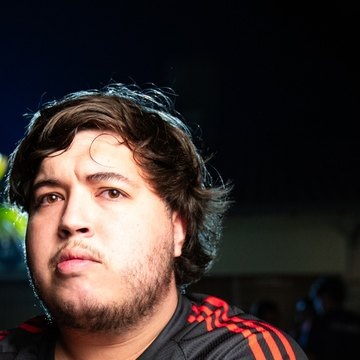
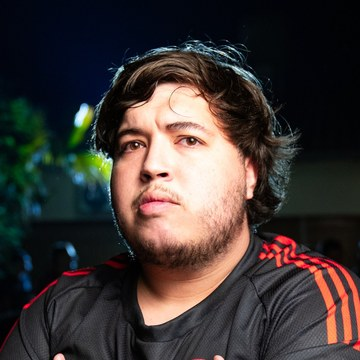
Copa Potrero: slideshow plantel, más fotos, Monza centrado, colaboración centrada
Claude-Session: https://claude.ai/code/session_01M6jUVZkPLQ8eqEsdzbFnz8

diff --git a/copa-potrero/index.html b/copa-potrero/index.html
@@ -107,7 +107,13 @@ tr.us td:first-child{color:var(--red)}
 
 /* plantel */
 .team{margin:0 0 14px;position:relative;background:var(--ink)}
-.team img{width:100%;display:block;aspect-ratio:16/8;object-fit:cover;object-position:50% 45%}
+.team{aspect-ratio:16/8;max-width:100%;overflow:hidden}
+.team img{position:absolute;inset:0;width:100%;height:100%;display:block;object-fit:cover;object-position:50% 45%;opacity:0;transition:opacity .8s}
+.team img.on{opacity:1}
+.team-dots{position:absolute;right:14px;bottom:14px;display:flex;gap:6px}
+.team-dots button{width:10px;height:10px;border-radius:50%;border:0;padding:0;background:rgba(255,255,255,.5);cursor:pointer}
+.team-dots button.on{background:#fff}
+@media (max-width:640px){.team{aspect-ratio:4/3}}
 .team figcaption{position:absolute;left:0;bottom:0;background:var(--red);color:#fff;font-family:var(--display);font-weight:900;font-size:1.2rem;text-transform:uppercase;letter-spacing:.03em;padding:8px 14px}
 .squad{display:grid;grid-template-columns:repeat(auto-fill,minmax(230px,1fr));gap:12px}
 .player{background:var(--paper);padding:18px;display:grid;grid-template-columns:auto 1fr;gap:16px;align-items:center}
@@ -159,7 +165,10 @@ tr.us td:first-child{color:var(--red)}
 .btn-ig:hover{background:var(--red)}
 .colabs{display:grid;grid-template-columns:repeat(auto-fill,minmax(320px,1fr));gap:16px;margin-top:16px}
 .colab{background:var(--paper);padding:18px;display:grid;gap:12px;align-content:start;min-width:0}
-.colab-h h3{font-size:1.8rem;margin-top:4px}
+.colab-h{text-align:center}
+.colab-h .eyebrow{display:block;color:var(--muted)}
+.colab-h h3{font-size:1.8rem;margin-top:6px}
+.colab .instagram-media{margin-left:auto!important;margin-right:auto!important}
 .colab .instagram-media{margin:0!important;min-width:0!important;width:100%!important;max-width:540px!important}
 .colab blockquote.instagram-media:not([style]){border:0;padding:0}
 .colab blockquote a{display:block;text-align:center;font-family:var(--display);font-weight:900;font-size:1.3rem;text-transform:uppercase;text-decoration:none;background:var(--ink);color:#fff;padding:14px}
@@ -189,7 +198,8 @@ tr.us td:first-child{color:var(--red)}
 .tile .go{font-weight:800;font-size:.78rem;letter-spacing:.12em;text-transform:uppercase;margin-top:6px}
 
 .join{margin-top:64px;background:var(--red);color:#fff}
-.join-in{display:grid;grid-template-columns:1.2fr .8fr;gap:28px;align-items:center;padding-block:48px}
+.join-ph{width:100%;max-width:100%;aspect-ratio:4/3;object-fit:cover;display:block;border:4px solid #fff}
+.join-in{display:grid;grid-template-columns:.9fr 1.1fr .8fr;gap:28px;align-items:center;padding-block:48px}
 .join-in > *{min-width:0}
 .join .eyebrow{color:#fff;opacity:.85}
 .join h2{font-size:clamp(2.8rem,7vw,5.2rem);margin-top:10px}
@@ -304,7 +314,14 @@ footer .handles a{color:var(--paper);text-decoration:none}
 
   <section id="plantel">
     <div class="sec-head"><h2 class="it">Plan<span>tel</span></h2><p>17 jugadores y cuerpo técnico confirmados para la Copa Potrero 2026.</p></div>
-    <figure class="team"><img src="fotos-grupal_2025.jpg" alt="Plantel de Liga Núñez en la Copa Potrero 2025"><figcaption>Plantel Liga Núñez · Copa Potrero 2025</figcaption></figure>
+    <figure class="team" id="teamShow">
+      <img src="fotos-plantel_cp2025.jpg" alt="Liga Núñez formado en la Copa Potrero 2025" class="on">
+      <img src="fotos-25_09.jpg" alt="Liga Núñez antes de un partido de la Copa Potrero 2025" loading="lazy">
+      <img src="fotos-25_b7.jpg" alt="Liga Núñez formado en la Copa Potrero 2025" loading="lazy">
+      <img src="fotos-24_0.jpg" alt="Ronda de Liga Núñez en la Copa Potrero 2024" loading="lazy">
+      <figcaption>Plantel Liga Núñez · Copa Potrero</figcaption>
+      <div class="team-dots" aria-hidden="true"></div>
+    </figure>
     <div class="squad" id="squad"></div>
   </section>
 
@@ -385,6 +402,7 @@ footer .handles a{color:var(--paper);text-decoration:none}
 
 <section class="join" id="jugar">
   <div class="wrap join-in">
+    <img class="join-ph" src="fotos-grupal_2025.jpg" alt="Plantel de Liga Núñez" loading="lazy">
     <div class="join-txt">
       <span class="eyebrow">El torneo F8 más grande del país</span>
       <h2 class="it">¿Querés jugar en<br>Liga Núñez?</h2>
@@ -432,7 +450,7 @@ footer .handles a{color:var(--paper);text-decoration:none}
   var roles={'Monza':['AC','Ayudante de campo'],'Carlos':['DT','Director técnico']};
   staff.forEach(function(n){var r=roles[n]||['DT','Cuerpo técnico'];var p=document.createElement('div');p.className='player dt';p.innerHTML=av(n,r[0])+'<span><span class="nm">'+n+'</span><br><span class="ps">'+r[1]+'</span></span>';sq.appendChild(p);});
   // Galería por año (lugares listos para cargar fotos)
-  var sets={ultima:['grupal_2025','25_09','24_6','25_02','24_7','25_06','24_8'],'2025':['grupal_2025','25_09','25_02','25_03','25_06','25_07','25_08','25_01','25_04','25_10','25_00'],'2024':['24_6','24_0','24_2','24_5','24_7','24_8']};
+  var sets={ultima:['plantel_cp2025','24_6','25_b0','25_02','24_7','25_06','24_8'],'2025':['plantel_cp2025','25_09','25_02','25_b0','25_03','25_b3','25_06','25_b1','25_07','25_b4','25_08','25_b6','25_01','25_b8','25_04','25_10','25_00','grupal_2025'],'2024':['24_6','24_d7_8','24_0','24_d7_4','24_2','24_d7_9','24_5','24_d7_6','24_7','24_d7_10','24_8','24_d7_2']};
   var notes={ultima:'Acá van las fotos de la última fecha jugada. Mientras arranca la Copa, una selección de 2024 y 2025.',
     '2025':'Copa Potrero 2025: partidos ante La Wilson, Las Piedras, Barche y Fiebre Amarilla.',
     '2024':'Copa Potrero 2024: el año que llegamos a cuartos de final.'};
@@ -444,6 +462,12 @@ footer .handles a{color:var(--paper);text-decoration:none}
   }
   document.querySelectorAll('.gal-tabs button').forEach(function(b){b.addEventListener('click',function(){gal(b.dataset.g);});});
   gal('ultima');
+  // slideshow plantel
+  (function(){var f=document.getElementById('teamShow');if(!f)return;var im=f.querySelectorAll('img'),dots=f.querySelector('.team-dots'),i=0,t;
+    function go(n){im[i].classList.remove('on');dots.children[i].classList.remove('on');i=n;im[i].classList.add('on');dots.children[i].classList.add('on');}
+    im.forEach(function(_,k){var b=document.createElement('button');b.type='button';b.setAttribute('aria-label','Foto '+(k+1));if(!k)b.className='on';b.onclick=function(){go(k);clearInterval(t);t=setInterval(nx,5000)};dots.appendChild(b)});
+    function nx(){go((i+1)%im.length)}
+    if(!window.matchMedia('(prefers-reduced-motion: reduce)').matches)t=setInterval(nx,5000);})();
   // Cuenta regresiva al 14/11 9:30 (UTC-3)
   var start=new Date('2026-11-14T09:30:00-03:00').getTime(), end=new Date('2026-11-23T23:59:00-03:00').getTime();
   function tick(){
